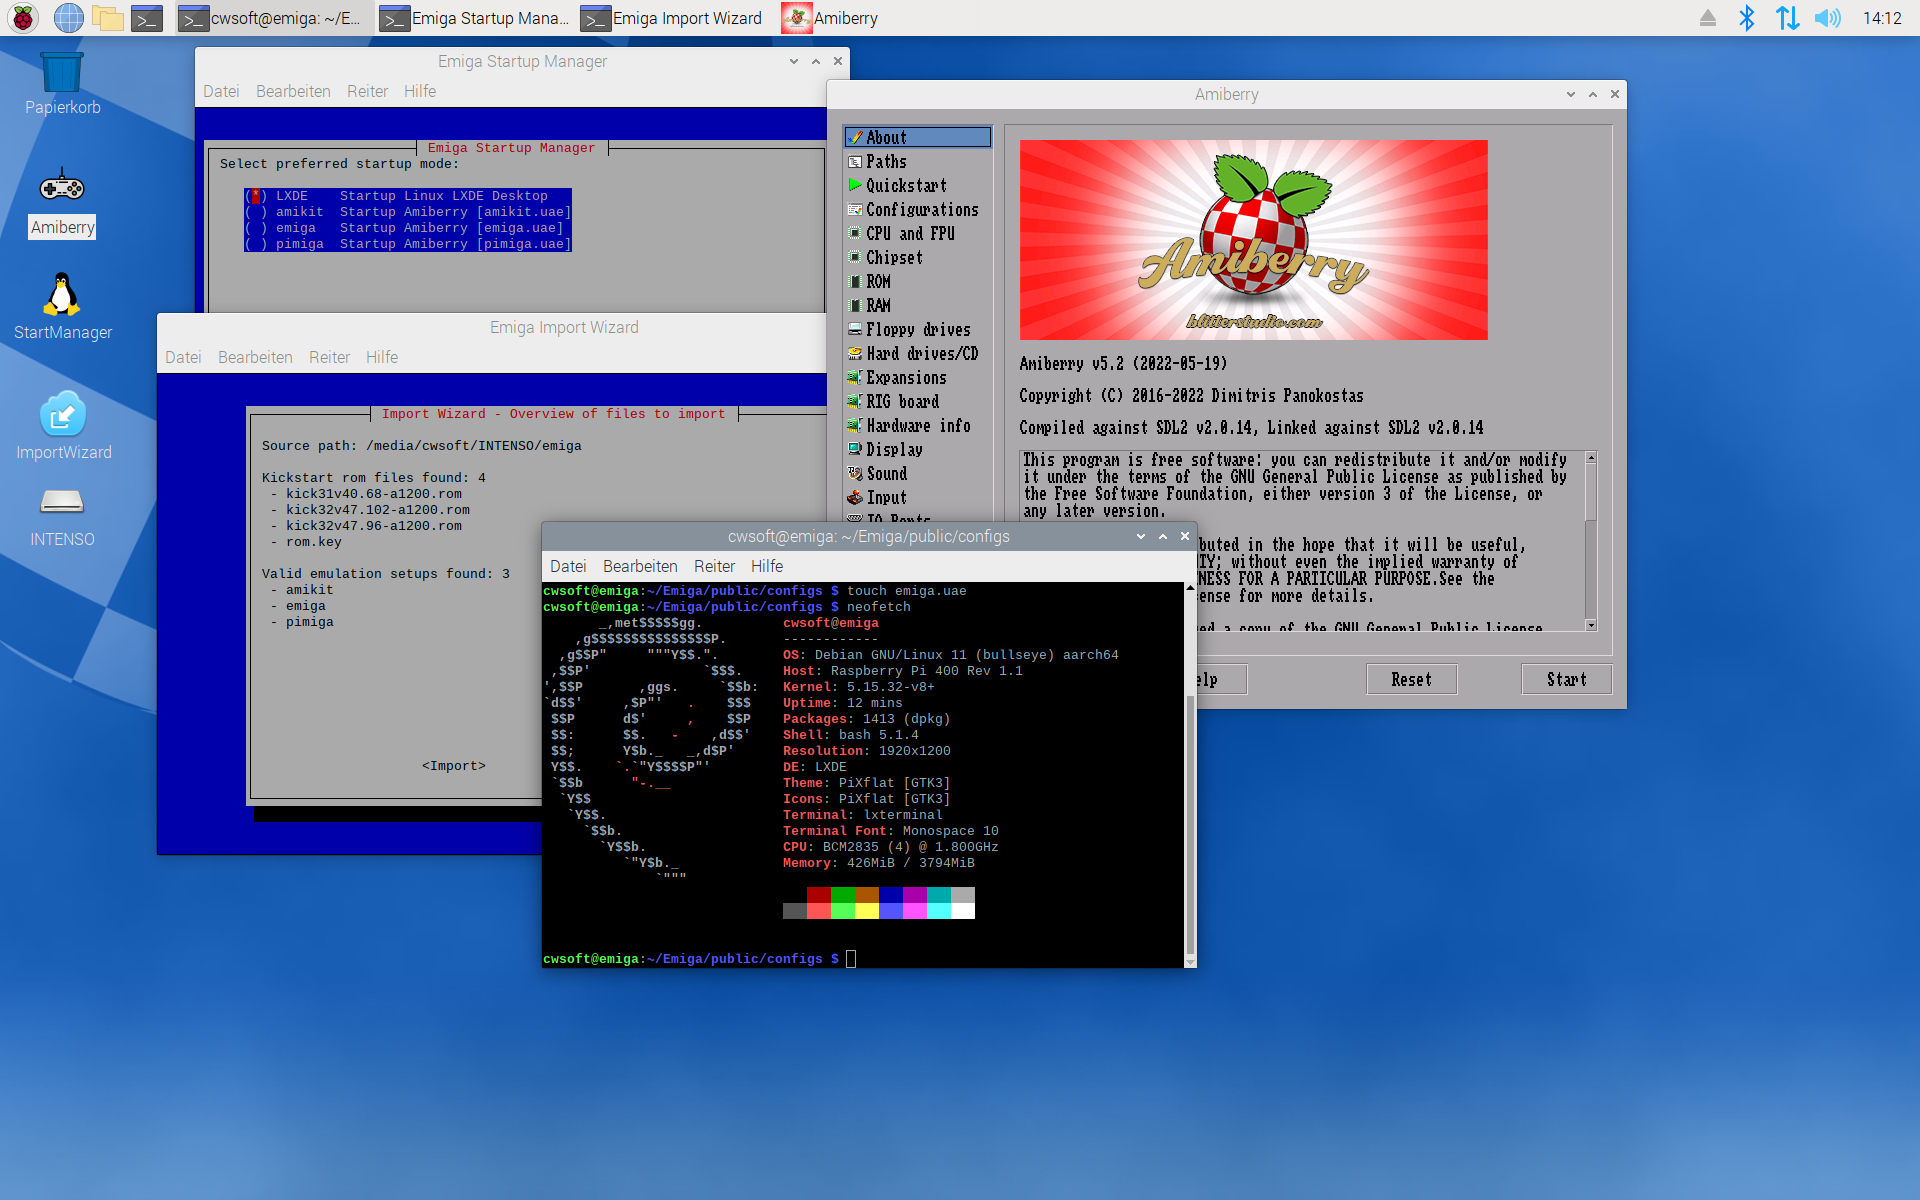
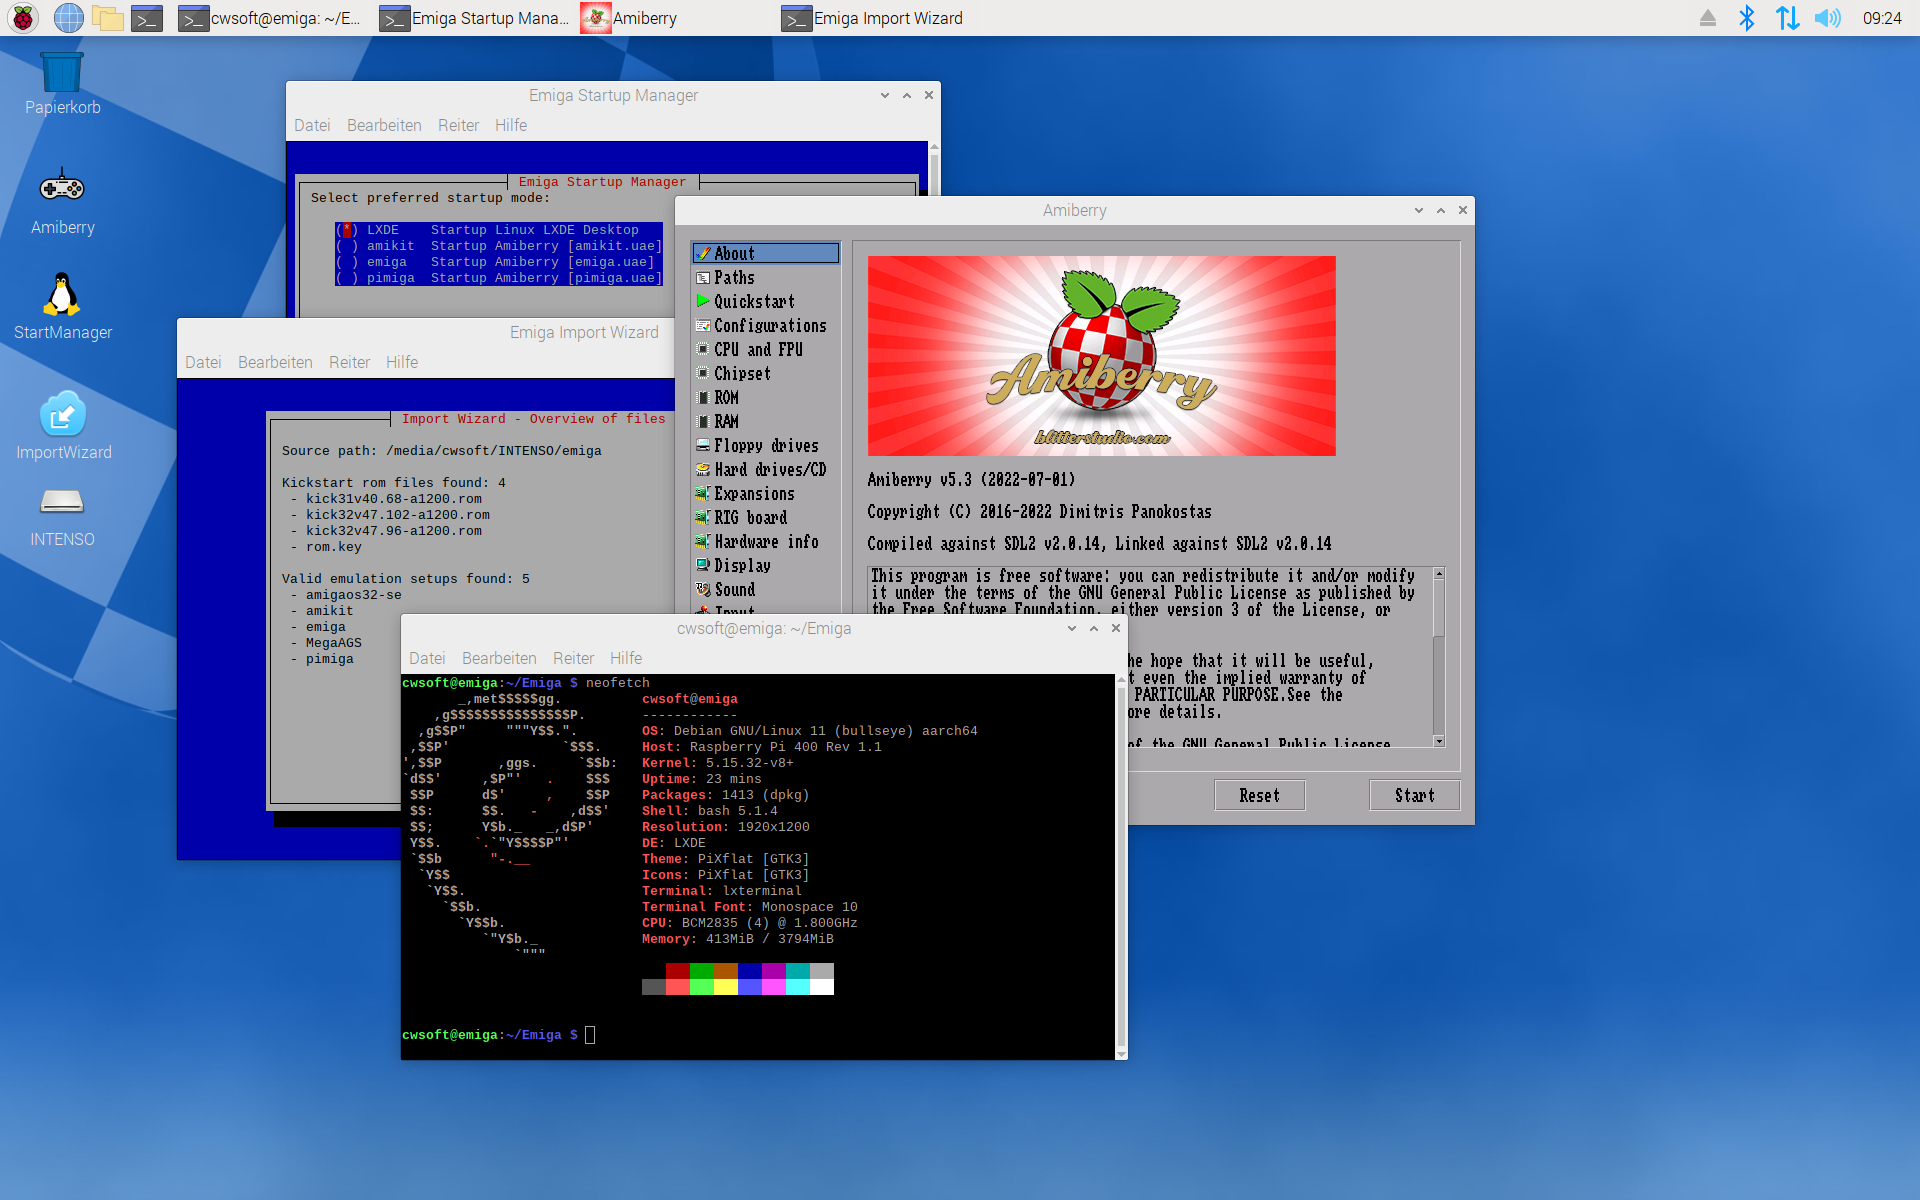
Updated Amiberry to v5.3

diff --git a/README.md b/README.md
@@ -1,5 +1,5 @@
 # Emiga - Emulated Amiga for Pi4/400
-This repo allows you to create an emulated Amiga environment (Emiga) on your Pi 4/400 on top of a clean [RPiOS-64 LXDE Desktop](https://www.raspberrypi.com/software/operating-systems/#raspberry-pi-os-64-bit) installation to host all your custom Amiga setups on a single SD card. The setup installs the required apt packages, [Amiberry v5.2 (SDL2)](https://github.com/midwan/amiberry), sets-up a Samba server for easier data exchange (`\\emiga` on Windows) and adds some desktop icons and a Amiga wallpaper to your RPiOS-64 LXDE Desktop.
+This repo allows you to create an emulated Amiga environment (Emiga) on your Pi 4/400 on top of a clean [RPiOS-64 LXDE Desktop](https://www.raspberrypi.com/software/operating-systems/#raspberry-pi-os-64-bit) installation to host all your custom Amiga setups on a single SD card. The setup installs the required apt packages, [Amiberry v5.2 (SDL2)](https://github.com/BlitterStudio/amiberry), sets-up a Samba server for easier data exchange (`\\emiga` on Windows) and adds some desktop icons and a Amiga wallpaper to your RPiOS-64 LXDE Desktop.
 
 ![Screenshot](./assets/screenshots/emiga_env.png)
 
@@ -25,13 +25,13 @@ This repo allows you to create an emulated Amiga environment (Emiga) on your Pi 
 ## C: Setup Emiga on your Pi4/400
 Open a terminal and execute the following commands. Reboot your Pi afterwards to apply any pending Emiga settings.
 ```
-cd
+cd ~
 git clone https://github.com/cwsoft/Emiga.git
 ./Emiga/scripts/setup/emiga_setup.sh
 ```
 ## D: Customize your Emiga Setup
 After the initial Emiga setup, you will find three icons on your Linux Desktop:
-- **Amiberry**: Open [Amiberry v5.2 (SDL2)](https://github.com/midwan/amiberry) GUI to create/modify your Amiga setups
+- **Amiberry**: Open [Amiberry v5.3 (SDL2)](https://github.com/BlitterStudio/amiberry) GUI to create/modify your Amiga setups
 - **StartManager**: Define setup started after boot-up (Default: LXDE Linux Desktop)
 - **ImportWizard**: Import custom ROMs and setups from USB (e.g. Workbench 3.x, AmiKit, Pimiga)
 
@@ -69,7 +69,7 @@ Icon={HOME}/Emiga/assets/icons/{EMULATION_PNG} -> e.g. amikit.png
 **Please note:** When starting a new or ported Amiga setup the very first time, the screen mode needs to be adapted for a nice user experience. In Pimiga2, the screen mode can be set via `System:Prefs/ScreenMode`. All Workbench setups include the `ScreenMode` tool to set a proper resultion like 32-bit 1920x1080 px.
 
 ### D2: Porting Pimiga2 to Emiga
-**Note:** It's assumed you already have [Pimiga2](https://youtube.com/watch?v=KLJk8fTjQLw) up and running on your Pi4/400 incl. a stable internet connection.
+**Note:** It's assumed you already have [Pimiga 2](https://youtube.com/watch?v=KLJk8fTjQLw) up and running on your Pi4/400 incl. a stable internet connection.
 
 1. Format a fast 64-GB USB 3.2 stick with `exFat` file format on your computer (e.g. Windows)
 2. Plug formated USB stick into your Pi, then boot-up your Pimiga2 setup from SD-Card
